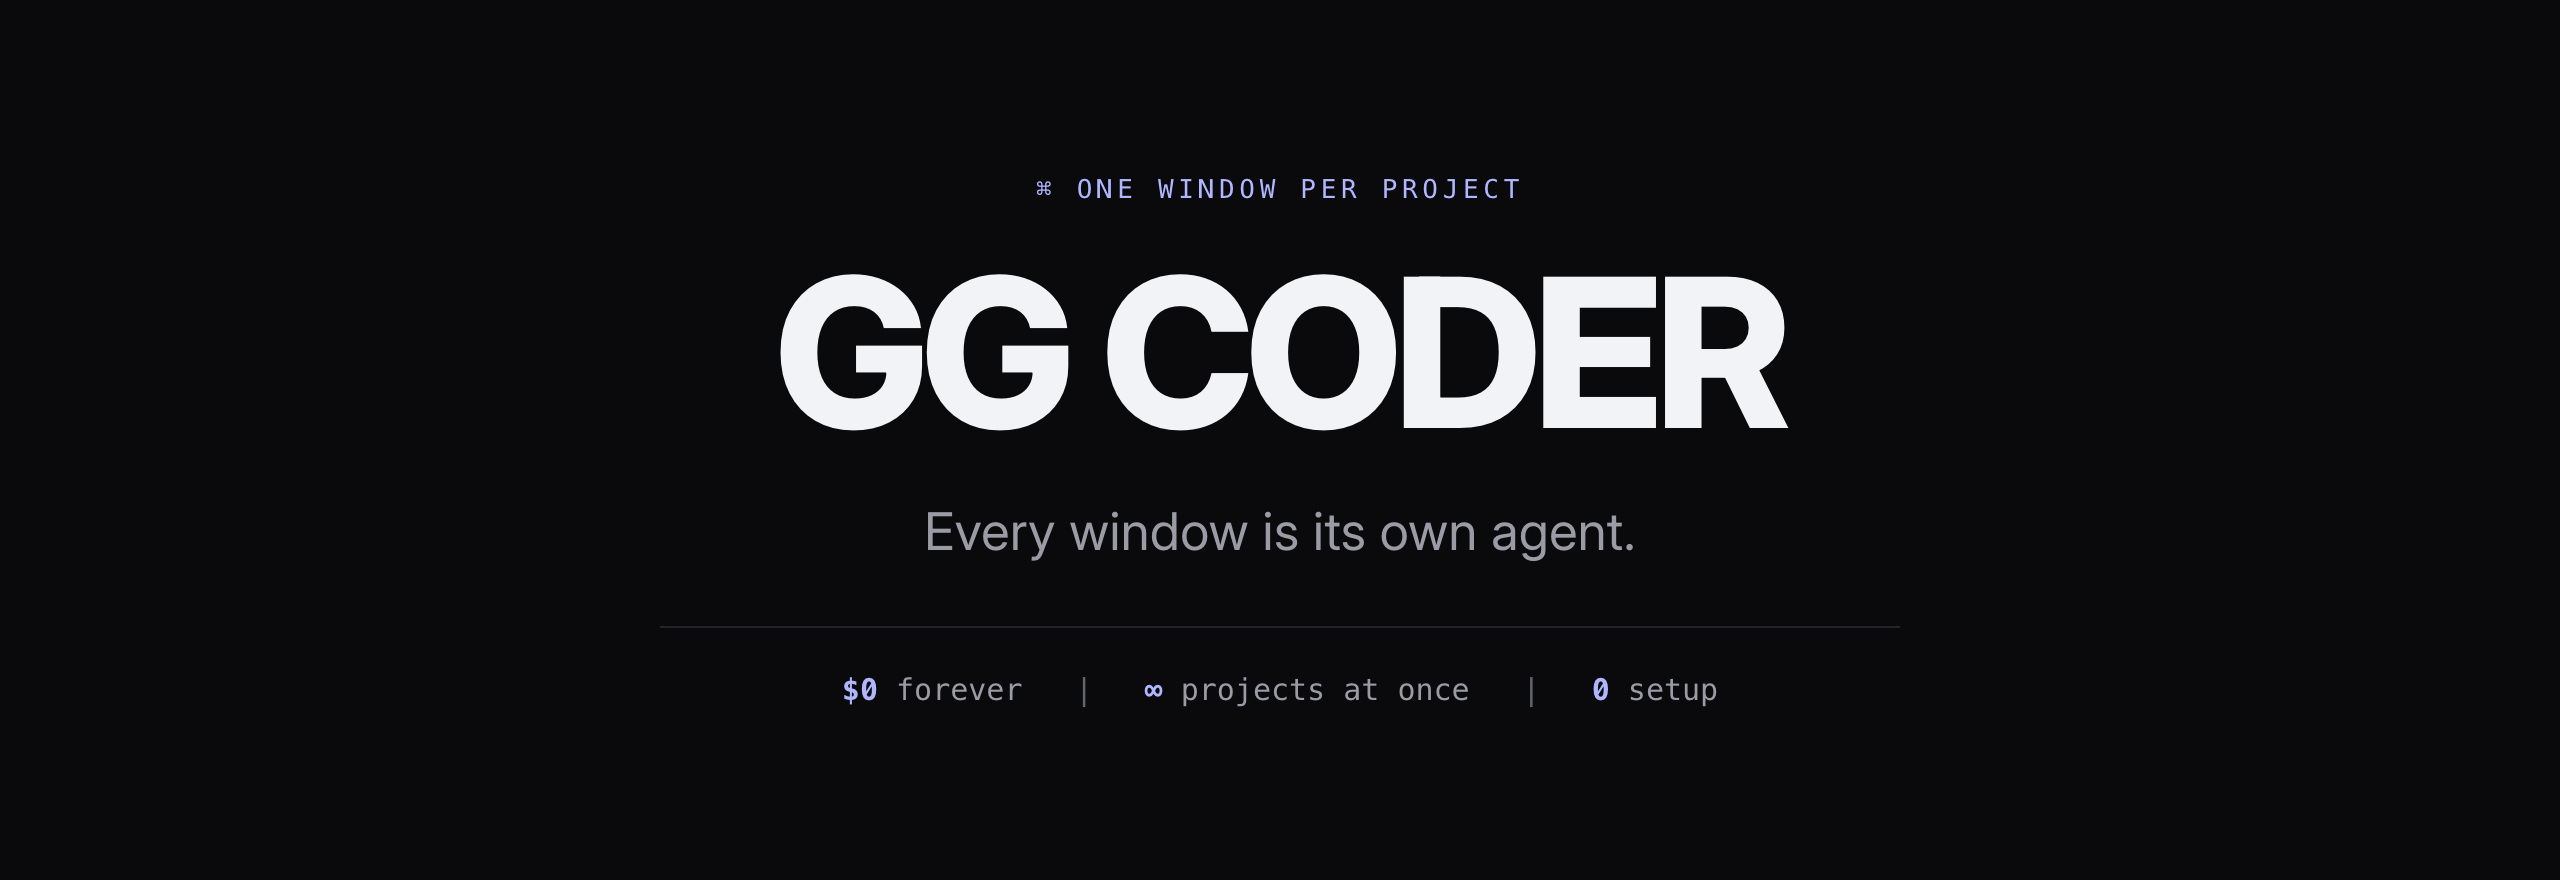
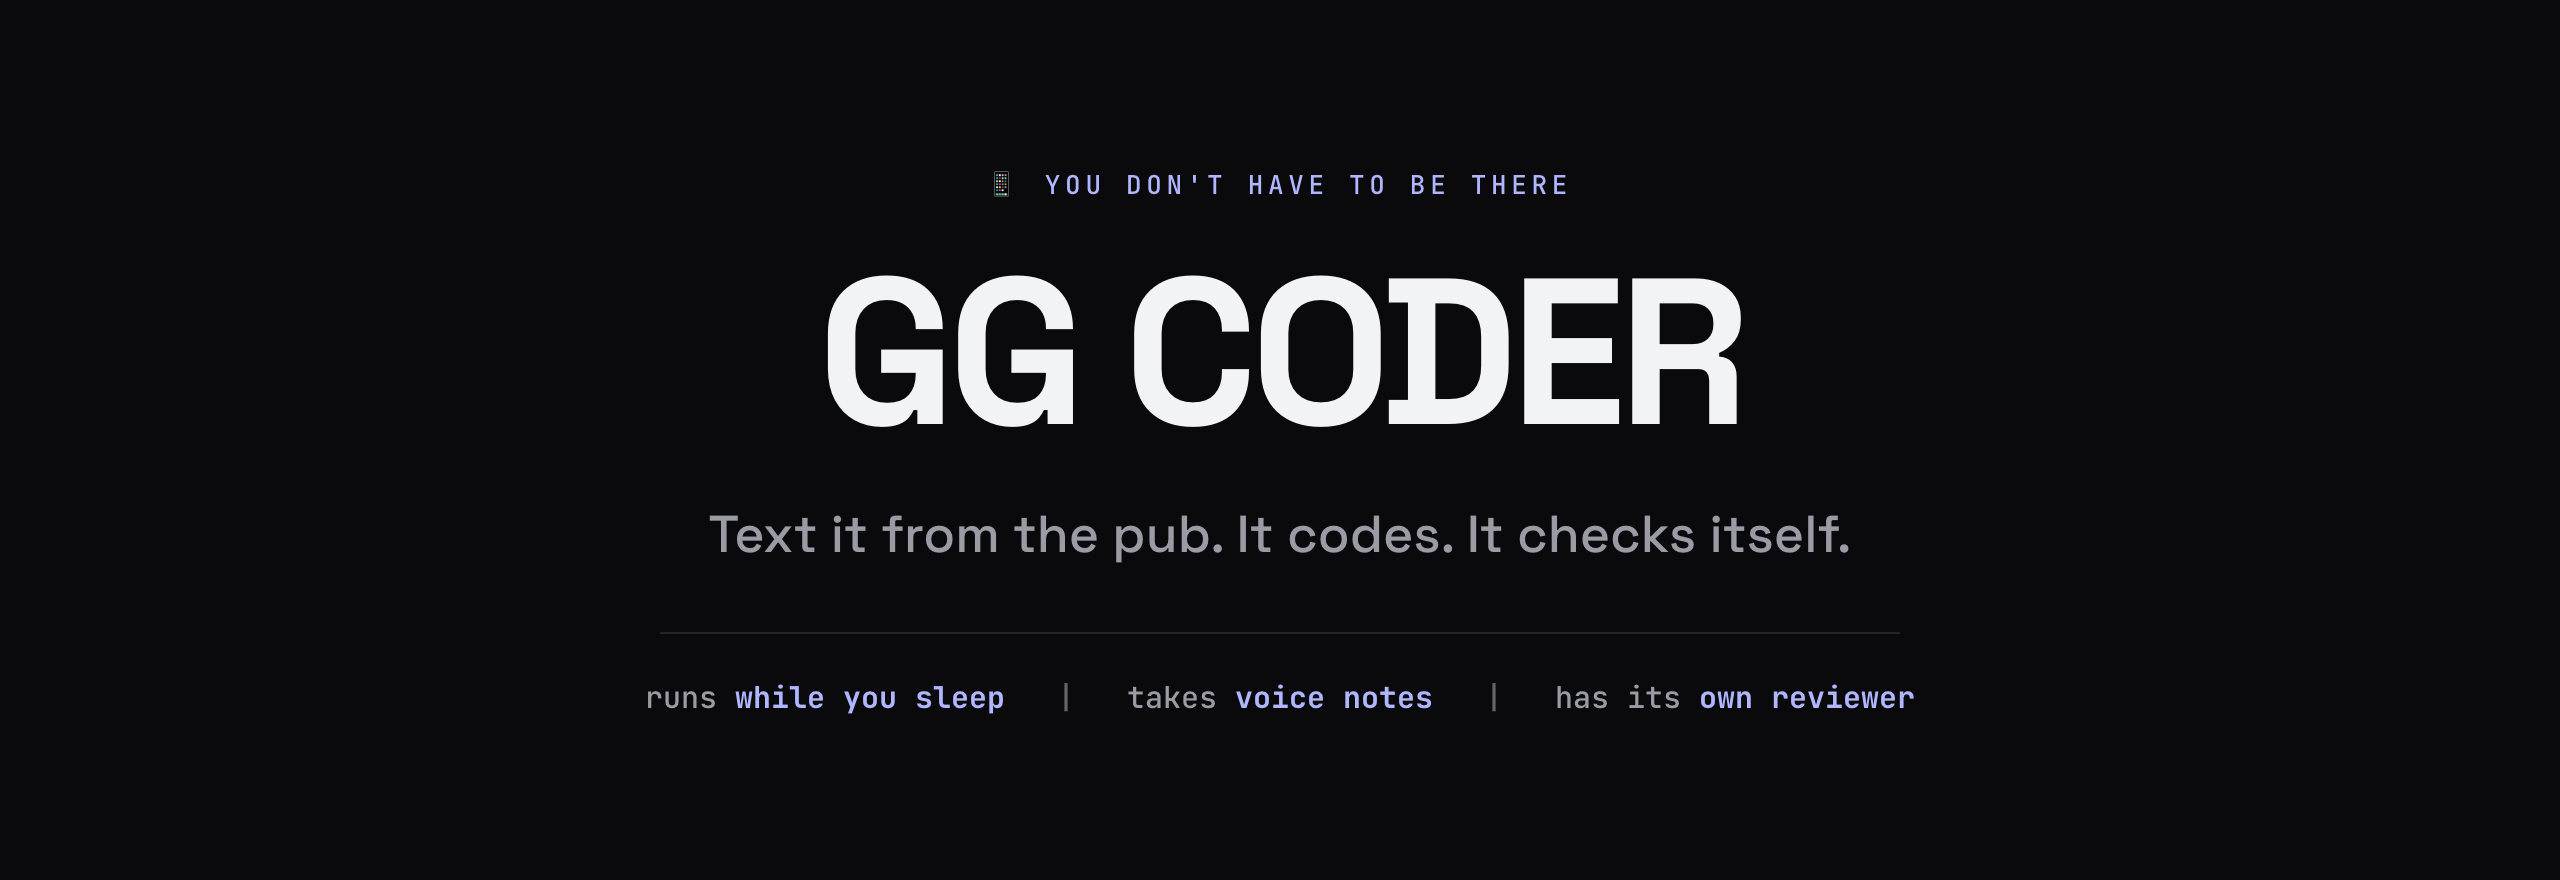
Sell the two things no other coding agent does
The page led on running several agents side by side and on being free. Neither
is a differentiator: people have been tiling Claude Code, Codex and Gemini CLI
in terminal panes for a long time, and every repo on GitHub is free. What is
actually unmatched is that you do not have to be present. A Telegram thread
drives the agent (voice notes transcribed locally, via serve-mode), work runs
on a schedule, and Ken reviews every finished job before it reaches you.

The hand-drawn panels are also gone. They mocked up GG Coder chrome that does
not match the real app, which misrepresents the product to anyone who has not
installed it, so every screen on the page is now a real capture from
capture-screenshots.mjs and the art renderer draws the title card only.

diff --git a/README.md b/README.md
@@ -1,5 +1,5 @@
 <p align="center">
-  <img src="docs/art/hero.png" alt="GG Coder: every window is its own agent">
+  <img src="docs/art/hero.png" alt="GG Coder: six things shipping, none of them waiting on you">
 </p>
 
 <p align="center">
@@ -16,34 +16,40 @@
 </p>
 
 <p align="center">
-  macOS · Windows · <a href="#-get-it">free forever</a> · no subscription, no seat fee, no middleman
+  <strong>The only coding agent you can walk away from.</strong>
 </p>
 
 <p align="center">
-  <em>Bring the plan you already pay for. Or run it entirely on your own hardware, offline.</em>
+  macOS · Windows · runs on the AI plan you already pay for
 </p>
 
 ---
 
 ## 😤 Why this exists
 
-I built this because every other coding agent and setup pissed me off.
+I built this because every other coding agent pissed me off.
 
-You've got a few things on the go. A side project, a client's app, that thing you keep meaning to finish. Your agent handles **one** of them at a time, so you split a terminal into panes, lose track of which pane is which, and the good one gets buried under the one you stopped caring about. Then the tool wants $20 a month to rent you a plan you already pay for.
+They all do the same thing: you sit there and **babysit**. Approve this. Confirm that. Read the output, spot the mistake, tell it again. You're not building, you're supervising. And the second you close the laptop, everything stops.
 
-So I made the one I wanted: **more power, less faffing about, and every feature nobody else was shipping.**
+So I built the one I wanted. Two things nobody else has.
 
-## 🪟 The fix
+## 📱 One: send it work from your phone
 
-**A real desktop app.** Every window is its own agent, its own project folder, its own model, its own history. Nothing bleeds between them.
+Hook it to a Telegram chat and **your laptop becomes something you text**. Send a message, send a voice note, get told when it's done. From the pub, from bed, from a queue at the shops.
+
+Voice notes get transcribed **on your own machine**, not sent to anyone. Put a job on a timer and it checks your site every 15 minutes and fixes whatever broke while you were asleep.
+
+## 🤖 Two: it has its own code reviewer
+
+Every other agent marks its own homework. This one doesn't.
+
+Flip on **Autopilot** and **Ken**, a whole second agent, reviews every finished job. Not good enough? He hands it straight back with exactly what's wrong, and it goes again. And again. Until it's right.
 
 <p align="center">
-  <img src="docs/art/windows.png" alt="Six GG Coder windows: aurora-store on Claude, pixel-pipeline on Codex, rusty-parser on a local qwen3-coder, landing-page on Gemini, api-gateway on Kimi, docs-site on GLM, each with its own status">
+  <img src="docs/screenshots/03-autopilot.png" alt="Ken sends GG Coder back in: the rate limiter's bucket is per-process, so the real limit is 4x what was configured. GG Coder moves it to Redis, and Ken signs off." width="900">
 </p>
 
-Tile 2, 4, 6, or hit auto-arrange and it lays out however many you've got open. Six isn't the ceiling. **That's four features shipping while you review one.**
-
-And it stays light. The shell is **Rust**. No Electron, no bundled browser engine sitting in RAM per window. It uses the renderer your OS already ships, and a window only costs you something while its agent is actually running. Six open is a normal Tuesday, not a fan event.
+That's the real thing, mid-loop. Ken caught a bug that would have quietly let through **four times** the traffic limit, sent it back, and signed off on the fix. **Nobody typed a single thing in between.**
 
 <p align="center">
   <a href="https://github.com/KenKaiii/gg-framework/releases/latest"><img src="https://img.shields.io/badge/⬇%20Download%20for%20macOS-Apple%20Silicon%20·%20.dmg-000000?style=for-the-badge&logo=apple&logoColor=white" alt="Download for macOS"></a>
@@ -54,25 +60,19 @@ Signed and notarized on macOS. It updates itself, so you install it once and for
 
 ---
 
-## 👀 You can see what it's doing
+## 👀 And when you are watching, you see everything
 
-Chat stays readable. Tools stream in a pinned panel at the bottom, so you watch every file it touches and every command it runs without your conversation turning into a wall of JSON.
+Chat stays readable. Every file it touches and every command it runs streams in a panel at the bottom, so nothing happens behind your back and your conversation never turns into a wall of noise.
 
-Git branch, uncommitted count, open issues and PRs up top. Context %, thinking level and both models down bottom.
-
-<p align="center">
-  <img src="docs/screenshots/02-chat.png" alt="GG Coder mid-run, with the live tool panel streaming edits and a test run" width="900">
-</p>
-
-## 🤖 Autopilot, the one nobody knows about
-
-Flip it on and **Ken**, a mentor agent, reviews every finished run. Not good enough? He sends GG Coder straight back in with specific feedback, and it keeps going until he signs off. You go make coffee.
+Run as many as you like at once, each on its own project and its own model, all reviewed by Ken:
 
 <p align="center">
-  <img src="docs/art/autopilot.png" alt="Autopilot loop: GG Coder builds a rate limiter, Ken catches that the bucket is per-process, GG Coder moves it to Redis and adds a test, Ken signs off">
+  <img src="docs/screenshots/00-many-windows.png" alt="Six GG Coder windows tiled across one screen, each on a different project and a different model, all working at the same time" width="900">
 </p>
 
-That's a real loop, and nobody typed anything in between. **This is the closest thing to a senior dev reviewing your agent's PRs at 3am.**
+<p align="center">
+  <img src="docs/screenshots/02-chat.png" alt="GG Coder answering why a checkout endpoint double-charges, then fixing it while the tool panel streams the files it edits and the test suite it runs" width="900">
+</p>
 
 ## 💉 It builds from code that actually shipped
 
@@ -80,15 +80,13 @@ Your agent learned to code from a snapshot of the internet, and that snapshot is
 
 One click on the Home screen installs it. Then `/steroids` profiles your project, finds the repos that match it, and indexes the ones you pick. **Your agent stops guessing at APIs that changed last quarter.**
 
-## 🔓 Nothing to subscribe to
+## 🔋 It doesn't stop when your plan runs out
 
-**You already pay for a plan. Use it.** Log in the same way you log into anything, and GG Coder runs on the subscription you've got. Twelve providers are built in, every big name and the cheap ones too, so you're never stuck with whoever put their prices up this month.
+You know the wall: mid-build, and your usage limit hits. Everything stops for five hours.
 
-Some accounts take a plan and a backup key at once: your subscription goes first, and the key quietly covers you the second the plan runs dry. **No dead stop halfway through a build.**
+GG Coder can hold **a subscription and a backup key at the same time**. The plan goes first, and the key takes over the second it runs dry. It just keeps going. A live meter up top shows exactly how much you've burned and when it resets, so it's never a surprise.
 
-Got something running on your own machine? It's found automatically, and works with no internet at all.
-
-**Swap mid-conversation whenever you like.** Put the expensive one on the hard problem, the cheap one on the grind, and run both at the same time in different windows.
+And nothing is locked in: swap models **mid-conversation**, or run one on your own machine with no internet at all.
 
 ## ✨ Everything else
 
@@ -101,7 +99,7 @@ Got something running on your own machine? It's found automatically, and works w
 | **Picks up where you left off** | Finds the projects you've been working on in Claude Code and Codex too, not just GG Coder ones                                                                 |
 | **Remembers your project**      | Notes, memory, chat export, and your own shortcut commands. Add any tool you find online by pasting one line                                                   |
 | **Watches your usage**          | A live meter up top shows how much of your plan you've burned and exactly when it resets. No surprise cut-offs                                                 |
-| **A bit stupid, on purpose**    | XP, ranks and streaks for shipping. Sound. ASCII banners. Webcam gaze focus, if you want your eyeballs to switch windows for you                               |
+| **A bit stupid, on purpose**    | XP, ranks and streaks for shipping. Sound. ASCII banners. Coding should be fun                                                                                 |
 
 ---
 
